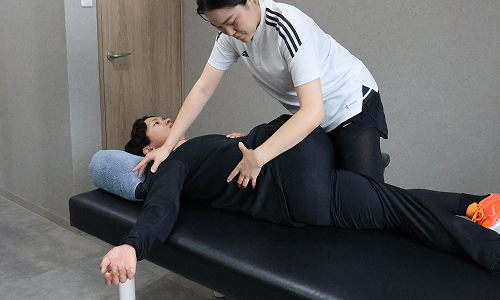
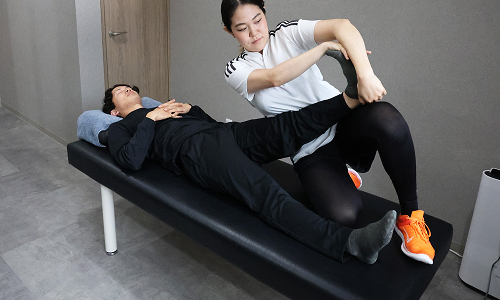
treatment

diff --git a/treatment.html b/treatment.html
@@ -202,15 +202,54 @@
                         <h2 class="ff-zenkaku">具体的な施術メニュー</h2>
 
                         <div class="treatment__stretch-menu__flex">
-                            <div class="treatment__stretch-menu__flex__text">
-                                <h3>体幹捻り</h3>
-                                <p>背中周りから腰回りお尻にかけて<br>
-                                ひねりながら伸ばす<br>
-                                腰痛がある方、ゴルフされる方におすすめのストレッチ
-                                </p>    
+                            <div class="treatment__stretch-menu__flex__item">
+                                <div class="treatment__stretch-menu__flex__image">
+                                    <img src="image/image_menu1.jpg" alt="The stretch">
+                                </div>
+                                <div class="treatment__stretch-menu__flex__text">
+                                    <h3>体幹捻り</h3>
+                                    <p>背中周りから腰回りお尻にかけて<br>
+                                    ひねりながら伸ばす<br>
+                                    腰痛がある方、ゴルフされる方におすすめのストレッチ
+                                    </p>    
+                                </div>
                             </div>
-                            <div class="treatment__stretch-menu__flex__image">
-                                <img src="image/image_menu1.jpg" alt="The stretch">
+                            <div class="treatment__stretch-menu__flex__item">
+                                <div class="treatment__stretch-menu__flex__image">
+                                    <img src="image/image_menu2.jpg" alt="The stretch">
+                                </div>
+                                <div class="treatment__stretch-menu__flex__text">
+                                    <h3>肩甲骨剥がし</h3>
+                                    <p>
+                                        肩こり、首こり、背中が辛くなる方、<br>
+                                        猫背、巻肩の方におすすめのストレッチ
+                                    </p>    
+                                </div>
+                            </div>
+                            <div class="treatment__stretch-menu__flex__item">
+                                <div class="treatment__stretch-menu__flex__image">
+                                    <img src="image/image_menu3.jpg" alt="The stretch">
+                                </div>
+                                <div class="treatment__stretch-menu__flex__text">
+                                    <h3>もも裏ストレッチ</h3>
+                                    <p>
+                                        腰がしんどい方、足が上がりづらい方、<br>
+                                        座っている姿勢が多い方におすすめのストレッチ    
+                                    </p>    
+                                </div>
+                            </div>
+                            <div class="treatment__stretch-menu__flex__item">
+                                <div class="treatment__stretch-menu__flex__image">
+                                    <img src="image/image_menu4.jpg" alt="The stretch">
+                                </div>
+                                <div class="treatment__stretch-menu__flex__text">
+                                    <h3>ふくらはぎストレッチ</h3>
+                                    <p>
+                                        第二の心臓とも言われるふくらはぎ<br>
+                                        立ち仕事、浮腫みやすい、冷えやすい、<br>
+                                        足の疲れがある方におすすめのストレッチ
+                                    </p>    
+                                </div>
                             </div>
                         </div>
 

diff --git a/css/style.css b/css/style.css
@@ -2210,10 +2210,6 @@ body.menu-open #fixed-btn {
 }
 @media screen and (min-width: 768px) {
   .treatment__stretch-menu__flex {
-    -webkit-box-orient: horizontal;
-    -webkit-box-direction: normal;
-        -ms-flex-direction: row;
-            flex-direction: row;
     -webkit-box-pack: center;
         -ms-flex-pack: center;
             justify-content: center;
@@ -2225,11 +2221,58 @@ body.menu-open #fixed-btn {
   }
 }
 
+.treatment__stretch-menu__flex__item {
+  display: -webkit-box;
+  display: -ms-flexbox;
+  display: flex;
+  -webkit-box-orient: vertical;
+  -webkit-box-direction: normal;
+      -ms-flex-direction: column;
+          flex-direction: column;
+}
+@media screen and (min-width: 768px) {
+  .treatment__stretch-menu__flex__item {
+    width: 120rem;
+    -webkit-box-orient: horizontal;
+    -webkit-box-direction: normal;
+        -ms-flex-direction: row;
+            flex-direction: row;
+    -webkit-box-align: center;
+        -ms-flex-align: center;
+            align-items: center;
+  }
+}
+
+.treatment__stretch-menu__flex__image {
+  width: 25rem;
+  aspect-ratio: 250/150;
+  margin-inline: auto;
+}
+@media screen and (min-width: 768px) {
+  .treatment__stretch-menu__flex__image {
+    width: 52rem;
+    aspect-ratio: 520/280;
+  }
+}
+
 .treatment__stretch-menu__flex__text {
   text-align: center;
+  margin-top: 3rem;
+}
+@media screen and (min-width: 768px) {
+  .treatment__stretch-menu__flex__text {
+    margin-top: 0;
+    -webkit-box-flex: 1;
+        -ms-flex: 1;
+            flex: 1;
+  }
 }
 .treatment__stretch-menu__flex__text h3 {
   font-size: 1.5rem;
+  margin-inline: auto;
+  width: -webkit-max-content;
+  width: -moz-max-content;
+  width: max-content;
   position: relative;
 }
 @media screen and (min-width: 768px) {
@@ -2245,8 +2288,8 @@ body.menu-open #fixed-btn {
           transform: translateY(-50%);
   left: -2.4rem;
   display: block;
-  width: 1.4rem;
-  aspect-ratio: 14/12;
+  width: 2rem;
+  aspect-ratio: 20/18;
   background-image: url("../image/logo_treatment3.svg");
   background-size: cover;
   background-position: center;
@@ -2260,9 +2303,12 @@ body.menu-open #fixed-btn {
 }
 .treatment__stretch-menu__flex__text p {
   font-size: 1.2rem;
+  margin-top: 1.5rem;
+  line-height: 1.5;
 }
 @media screen and (min-width: 768px) {
   .treatment__stretch-menu__flex__text p {
     font-size: 2.5rem;
+    margin-top: 4rem;
   }
 }/*# sourceMappingURL=style.css.map */

diff --git a/scss/object/project/_treatment.scss b/scss/object/project/_treatment.scss
@@ -345,7 +345,6 @@
     align-items: center;
     margin-top: 4rem;
     @include pc {
-        flex-direction: row;
         justify-content: center;
         align-items: center;
         gap: 6.2rem;
@@ -353,10 +352,36 @@
     }
 }
 
+.treatment__stretch-menu__flex__item {
+    display: flex;
+    flex-direction: column;
+    @include pc {
+        width: 120rem;
+        flex-direction: row;
+        align-items: center;
+    }
+}
+.treatment__stretch-menu__flex__image {
+    width: 25rem;
+    aspect-ratio: 250/150;
+    margin-inline: auto;
+    @include pc {
+        width: 52rem;
+        aspect-ratio: 520/280;
+    }
+}
+
 .treatment__stretch-menu__flex__text {
     text-align: center;
+    margin-top: 3rem;
+    @include pc {
+        margin-top: 0;
+        flex: 1;
+    }
     h3 {
         font-size: 1.5rem;
+        margin-inline: auto;
+        width: max-content;
         position: relative;
         @include pc {
             font-size: 4.5rem;
@@ -368,8 +393,8 @@
             transform: translateY(-50%);
             left: -2.4rem;
             display: block;
-            width: 1.4rem;
-            aspect-ratio: 14/12;
+            width: 2rem;
+            aspect-ratio: 20/18;
             background-image:  url("../image/logo_treatment3.svg");
             background-size: cover;         // 枠いっぱいに拡大
             background-position: center;    // 中央基準
@@ -383,8 +408,11 @@
 
     p {
         font-size: 1.2rem;
+        margin-top: 1.5rem;
+        line-height: 1.5;
         @include pc {
             font-size: 2.5rem;
+            margin-top: 4rem;
         }
     }
 }
